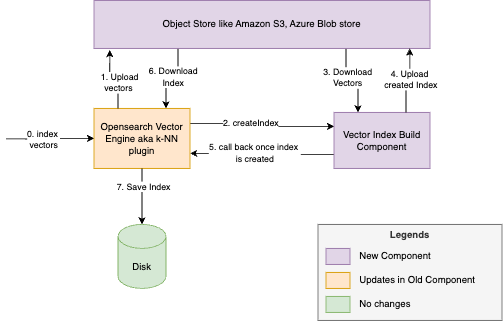
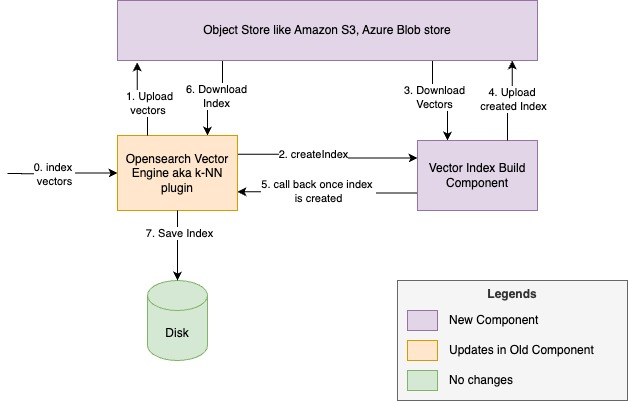
Doc review

diff --git a/_posts/2025-03-03-GPU-Accelerated-Vector-Search-OpenSearch-New-Frontier.md b/_posts/2025-03-03-GPU-Accelerated-Vector-Search-OpenSearch-New-Frontier.md
@@ -1,6 +1,6 @@
 ---
 layout: post
-title:  GPU Accelerated Vector Search Opensearch New Frontier 
+title:  "GPU-accelerated vector search in Opensearch: A new frontier" 
 authors:
   - navneev
   - cnolet
@@ -9,7 +9,7 @@ authors:
   - nwstephens
   - vamshin
 date: 2025-03-03
-has_science_table: false
+has_science_table: true
 categories:
   - technical-posts
 meta_keywords: Vector Database, Vector Engine, k-NN plugin,  OpenSearch 3.0, k-nn search, Vector Search, Semantics Search, Index Build
@@ -18,11 +18,14 @@ meta_description: Learn about how OpenSearch Vector Engine is going to use GPU f
 
 OpenSearch's adoption as a vector database has grown significantly with the rise of generative AI applications. Vector search workloads are scaling from millions to billions of vectors, making traditional CPU-based indexing both time-consuming and cost-intensive. To address this challenge, OpenSearch is introducing GPU acceleration as a [preview feature](https://github.com/opensearch-project/k-NN/issues/2293) for its Vector Engine in the upcoming 3.0 release by using [NVIDIA cuVS](https://github.com/rapidsai/cuvs). By leveraging the massive parallel processing capabilities of GPUs, this new feature dramatically reduces index building time, significantly lowering operational costs while delivering superior performance for large-scale vector workloads.
 
-### Why use GPU Acceleration?
+### Why use GPU acceleration?
+
 The OpenSearch Vector Engine has made [significant strides](https://github.com/opensearch-project/k-NN/issues/1599) in 2024, implementing various optimizations including [AVX512 SIMD support](https://github.com/opensearch-project/k-NN/issues/2056), segment replication, [efficient vector formats](https://github.com/opensearch-project/k-NN/issues/1853) for reading and writing vectors, [iterative index builds](https://github.com/opensearch-project/k-NN/issues/1938), [intelligent graph builds](https://github.com/opensearch-project/k-NN/issues/1942), and [derived source](https://github.com/opensearch-project/k-NN/issues/2377) for vectors. While these features and optimizations delivered incremental improvements in indexing times, they primarily enhanced the peripheral components of vector search rather than addressing the fundamental performance bottleneck in core vector operations.
+
 Vector operations, particularly distance calculations, are computationally intensive tasks that are ideally suited for parallel processing. GPUs excel in this domain due to their massively parallel architecture, capable of performing thousands of calculations simultaneously. By leveraging GPU acceleration for these compute-heavy vector operations, OpenSearch can dramatically reduce index build times. This not only improves performance but also translates to significant cost savings, as shorter processing times mean reduced resource utilization and lower operational expenses. The GPUs ability to efficiently handle these parallel computations makes it a natural fit for accelerating vector search operations, offering a compelling solution for organizations dealing with large-scale vector datasets.
 
-## New Architecture
+## The new architecture
+
 The streamlined, decoupled GPU-accelerated indexing system comprises three core components:
 
 1. **Vector Index Build Service** – A dedicated GPU-powered fleet that specializes in high-performance vector index construction. This service operates independently for optimal GPU resource utilization.
@@ -50,7 +53,9 @@ The new system uses the following workflow:
   - Completes the segment creation process.
 
 If any step encounters an error, the system automatically falls back to CPU-based index building to ensure continuous operation. For more information, see the [technical design documents](https://github.com/opensearch-project/k-NN/issues/2293) and [architecture diagrams](https://github.com/opensearch-project/k-NN/issues/2294).
-### Vector Index Builds using CAGRA Algorithm
+
+### Vector index builds using the CAGRA algorithm
+
 The GPU workers leverage [NVIDIA cuVS](https://github.com/rapidsai/cuvs) CAGRA algorithm integrated through the [Faiss](https://github.com/facebookresearch/faiss) library. [CAGRA](https://arxiv.org/abs/2308.15136), or (C)UDA (A)NNS (GRA)ph-based, is a novel approach for graph-based indexing that was built from the ground up for GPU acceleration. CAGRA constructs a graph representation by first building a k-NN graph using either [IVF-PQ](https://developer.nvidia.com/blog/accelerating-vector-search-nvidia-cuvs-ivf-pq-deep-dive-part-1/) or [NN-DESCENT](https://docs.rapids.ai/api/cuvs/nightly/cpp_api/neighbors_nn_descent/) and then removing redundant paths between neighbors.
 
 When a Vector Index Build request arrives at the GPU workers, it carries all necessary parameters for constructing the segment-specific vector index. The Vector Index Build component initiates the process by retrieving the vector file from the object store and loading it into CPU memory. These vectors are then inserted in the CAGRA index through Faiss. Upon completion of the index construction, the system automatically converts the CAGRA index into an HNSW-based format, ensuring compatibility with CPU-based search operations. The converted index is then uploaded to the object store, marking the successful completion of the build request. This ensures that indexes built on GPUs can be efficiently searched on CPU machines while maintaining index building performance benefits.
@@ -61,7 +66,7 @@ When a Vector Index Build request arrives at the GPU workers, it carries all nec
 
 ## Benchmark results
 
-Initial benchmarking shows significant improvements in indexing performance and cost efficiency. The experiments used a [10M 768D dataset](https://github.com/opensearch-project/opensearch-benchmark-workloads/blob/main/vectorsearch/workload.json#L54-L64) and [OpenSearch Benchmarks](https://opensearch.org/docs/latest/benchmark/). The OpenSearch distribution is available [here](https://github.com/navneet1v/k-NN/releases/download/stagging-remote-index-build-v3/opensearch-2.19.0-SNAPSHOT-linux-arm64.tar.gz).
+Initial benchmarking shows significant improvements in indexing performance and cost efficiency. The experiments used a [10M 768D dataset](https://github.com/opensearch-project/opensearch-benchmark-workloads/blob/main/vectorsearch/workload.json#L54-L64) and [OpenSearch Benchmark](https://opensearch.org/docs/latest/benchmark/). The OpenSearch distribution is available [here](https://github.com/navneet1v/k-NN/releases/download/stagging-remote-index-build-v3/opensearch-2.19.0-SNAPSHOT-linux-arm64.tar.gz).
 
 ### Test setup
 
